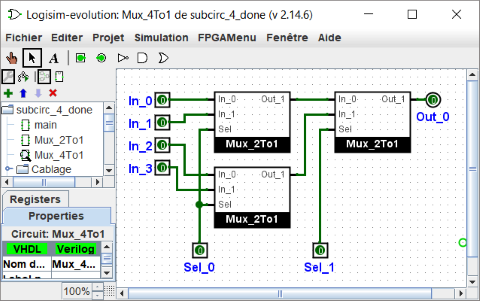
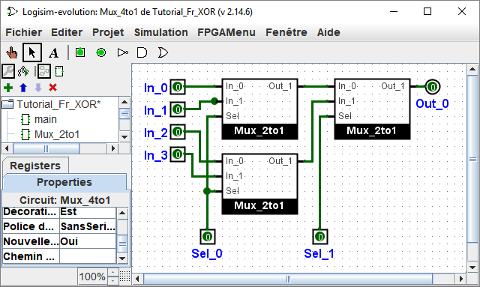
Translate to fr
Add toolsbar

diff --git a/doc/fr/html/libs/base/edit.html b/doc/fr/html/libs/base/edit.html
@@ -1,13 +1,13 @@
 <html>
 <meta charset="UTF-8">
 <head>
-<title>Edit Tool</title>
+<title>Outil Editer</title>
 </head>
 
 <body bgcolor="FFFFFF">
 
 <h1><img  align="center" src="../../../icons/select.gif" width="32" height="32">
-<em>Edit Tool</em></h1>
+<em>Outil Editer</em></h1>
 
 <p><table>
 <tr><td><strong>Librairie:</strong></td>
@@ -18,66 +18,40 @@
 
 <h2>Comportement</h2>
 
-<p>The Edit tool allows the user to rearrange existing components and to add  wires. Exactly what the tool does depends on where the user presses the mouse
-on the canvas.</p>
+<p><b>L'outil Editer</b> permet à l'utilisateur de réorganiser sur les dessins les composants existants et d'ajouter des câbles. Cet outil est une sorte de super outil qui regroupe les fonction de l'outil sélection et câblage. L'effet de l'outil Editer varie selon l'endroit ou l'utilisateur clic avec la souris.</p>
+<h3>La sélection</h3>
+<p>Comme dans la pluspart des programmes de dessins Logisim permet de sélectionner des éléments de celui-ci pour les déplacer,les copier les supprimer ou les modifier.
 
-<ul>
+<p><b>Un simple clic-droit</b> sur un composant ou un fil non déjà marqué sélectionne celui-ci. Si une autre sélection est active, elle sera libérée et seul le dernier composant cliqué sera sélectionné.<br>
+Si l'on commence l'opération clic-droit-glissé sur une partie du dessin ou il n'y pas de composant cela déclenche une sélection rectangulaire et tous les composants couverts par ce rectangle seront sélectionnés.<br>
+Si on maitient le bouton gauche enfoncé ou si l'on clic-droit sur une sélection celle-ci peut être immédiatement déplacée par un glisser sur le dessin.<br></P>
+</p><b>Un Maj-Clic-droit</b> sur un composant rajout celui-ci à la sélection en cours. Si l'on effectue un Maj-Clic-glissé cela déclanche une sélection rectangulaire et tous les composants couverts par cette sélection seront rajoutés à la sélection active.</p>
 
-<li><p>When the mouse is over a wiring point for an existing component,or if it is atop a current wire, the Edit Tool will display a small green circle around the mouse's location. Pressing the button there initiates the addition of a new wire. But if the user doesn't drag the mouse far enough to initiate a wire before releasing the button, the press is treated as a mouse click, and so the wire is simply added into the current selection.</p>
+<p><b>Un clic-gauche</b> ou un <b>Ctrl-clic</b> affiche le menu contextuel du composant ou de la sélection au-dessous du curseur de la souris.</p>
+ 
+<p><b>Un ALt+clic</b> sur un segment de fil permet de le déplacer en conservant le câblage. Si vous effectuez cette action en dehors d'un câblage, un petit cercle vert sera affiché et vous pourrez en  glissant la souris etablir un nouveau câblage depuis ce point.
 
-<p>The bit width of an added wire is inferred from the components to which it is connected. If it is not attached to any components, the wire will be drawn gray to indicate that its bit width is unknown; if the components at the locations that the wire helps to connect disagree on the bit width, then the wire will be drawn orange to indicate the conflict, and the wire will in fact refuse to carry any values at all until the user resolves the conflict.</p>
+<p><b>Note:</b> Certain point du dessins ont un corportement particulier sur un clic-droit, ils ne déclanche pas de sélection. Mais commence un câblage. Il s'agit des extrémités des fils et des connexions des composants. Un petit cercle vert s'affiche quand cela se produit.</b></p>
 
-<p>All wires in Logisim are either horizontal or vertical, never diagonal.</p>
+<p>Par la suite en plus des possibilités commune du <a href="../../guide/menu/edit.html">menu éditer</a> ( copier Ctrl-C, couper Ctrl-X, coller Ctrl-V et effacer Del/Delete ) certaines touches ont un effet avec l'outil d'édition.
 
-<p>Wires are non-directional; that is, they carry values from either endpoint to the other. Indeed, a wire can carry values in both directions simultaneously: In the below example, a bit flows from the upper input at left through the center wire, then it circles back through the center wire, and then it circles forward again through the center wire before reaching the output at lower right.</p>
-<center><img src="../../../img-guide/bundles-splitter-2way.png" width="191" height="44"></center>
+<ul><li><p>Les touches fléchées modifient l'attribut Orientation pour tous les composants de la sélection qui ont un tel attribut</p></li>
 
-<p>A single drag of the mouse can create multiple wire segments. The precise process is a little confusing in its description; but it works quite intuitively in practice: If you request a particular wire segment using the Wiring Tool, that segment will be split apart wherever it hits a pin for an existing component, or wherever it hits the endpoint of an existing wire segment. Also, if an endpoint of any of the new wire segments hit somewhere in the middle of an existing wire, then that wire will be split into multiple segments itself.</p>
+<li><p>Les touches Del Delete (Supprimer) et Retour arrière suppriment l'ensemble des composants sélectionés.</p></li>
 
-<p>You can also shorten or delete an existing wire segment by initiating a drag at the terminus of the segment and then drawing backwards across the segment. During the drag, the shortening is indicated by drawing a white line over of the portion of the wire that will be removed.</p>
-
-<p>Some components draw short stubs to which wires can connect, such as the <a href="../gates/basic.html">OR gate</a> and <a href="../gates/controlled.html">controlled buffer</a>. Logisim will silently correct attempts to create wires that slightly overshoot the stub's end.</p></li>
-
-<li><p>If, however, the user presses the Alt key at a point in the middle of the wire, then the green circle will disappear. A mouse press selects the wire, and a mouse drag moves it.</p></li>
-
-<li><p>Pressing the mouse button while it is within a currently selected component begins a drag moving all elements of the selection.</p>
-
-<p>By default, Logisim will compute a way to add new wires
-so that no existing connections are lost during the move. (Sometimes it will delete or shorten existing wires.) If you're performing a move where you do not want these changes to be made, you can press the shift key during the move. If you want to disable this Comportement entirely, go to Project &gt; Options, select the Canvas tab, and uncheck the <q>Keep Connections When Moving</q> box; in this case, the connections are computed only when the shift key <em>is</em> down.</p>
-
-<p>Dragging a selection can lead to unexpected Comportement from wires: If you drag a selection including some wires on top of some other wires, all wires are merged, and the merged wires are placed into the selection.  As a result, if you drag the selection a second time, the wires previously at the location will not be left behind. This Comportement is necessary to keep with the intuitive Comportement of wires in Logisim, where wires never overlap. And it does not normally constitute a major problem: Logisim will draw the full selection in the midst of dropping, and you should not drop it until you are sure it is in the correct location.</p></li>
-
-<li><p>Pressing the mouse within an unselected component (but not at one of  the component's wiring points) drops all components from the current selection and selects instead the component(s) containing the clicked location.</p></li>
-
-<li><p>Shift-clicking the mouse within a component toggles that component's presence within the selection. If multiple components include the same location, all components' presence will be toggled.</p></li>
-
-<li><p>Dragging the mouse starting at a location not contained within any components drops all components from the current selection and initiates a rectangular selection. All component(s) contained by the rectangle will be placed into the selection.</p></li>
-
-<li><p>Shift-dragging the mouse starting at a location not contained within any components initiates a rectangular selection. The presence in the selection of all component(s) contained by the rectangle will be toggled.</p></li>
-
-<li><p>However, if the Alt key is pressed at a location not contained within any components, this initiates the addition of a new wire. A small green circle is drawn in such a circumstance to indicate this.</p></li>
+<li><p>Les touches Insérer et Ctrl-D créeront une copie des composants actuellement sélectionnés.</p></li>
 
 </ul></p>
+<p>Par défaut, Logisim calculera un moyen d'ajouter de nouvelles  connexions de sorte qu'aucune connexion existante ne soit perdue pendant le déplacement. (Parfois, cela supprime ou raccourcit les câbles existants.) Si vous effectuez un déplacement où vous ne souhaitez pas que ces modifications soient effectuées, vous pouvez appuyer sur la touche Maj pendant le déplacement. Si vous voulez désactiver entièrement ce comportement, allez dans le menu Project & gt; Options, sélectionnez l'onglet Canevas et décochez la case <q> Conserver les connexions lors du déplacement </q>; dans ce cas, les connexions ne sont calculées que lorsque la touche Maj est enfoncée.</p>
 
-<p>After selecting the desired items in the selection, you can of course cut/copy/paste/delete/duplicate all the items via the <a href="../../guide/menu/edit.html">Edit menu</a>.</p>
+<p>Si vous avez sélectionné plusieurs composants en utilisant l'outil d'édition, alors la table d'attribut ne présentera que les attributs communs aux différents composants sélectionnés (à l'exclusion des câbles). Si les composants sélectionnés n'ont pas la même valeur pour un attribut, alors la valeur pour cet attribut sera un espace blanc. Vous pouvez changer la valeur pour tous les attributs sélectionnés en une fois en l'éditant.</p>
+</P>
 
-<p>Some keys have an effect with the Edit Tool.</p>
-
-<ul>
-
-<li><p>The arrow keys change the Facing attribute for all components in the selection that have such an attribute.</p></li>
-
-<li><p>The Delete and Backspace keys will delete everything in the selection from the circuit.</p></li>
-
-<li><p>The Insert and MenuKey-D keys will create a duplicate of the currently selected components.</p></li>
-
-</ul>
-
-<p>Logisim's Comportement when duplicating a selection or pasting the clipboard into a circuit is somewhat peculiar: It will not immediately place the components into the circuit; instead, the selection will be a collection of "ghosts," which will be dropped into the circuit as soon as they are either dragged to another location or removed from the selection. (This peculiar Comportement is necessary because pasting will otherwise merge the wires of the selection into the current circuit at once, and the wires there previously will be dragged with the pasted clipboard if the user wants to move the pasted components somewhere else.)</p>
+<p>Le Comportement de Logisim lors de la duplication d'une sélection ou du collage du presse-papiers dans un circuit est quelque peu particulier: il ne placera pas immédiatement les composants dans le circuit; au lieu de cela, la sélection sera une collection de "fantômes", qui seront déposés dans le circuit dès qu'ils seront déplacés vers un autre emplacement ou retirés de la sélection. (Ce Comportement particulier est nécessaire, car dans un cas contraire le collage fusionnerait les fils de la sélection dans le circuit actuel, et les câbles qui s'y trouveraient seraient déplacés avec le Presse-papier collé si l'utilisateur veut déplacer cette sélection ailleurs.)</p>
 
 <h2>Attributs</h2>
 
-<p>None. Selecting a component, though, will display its Attributs. With multiple components selected, Attributs shared by all are shown, blank if they have different values and otherwise with the value they all have in common. (Wires are ignored if there are any non-wires in the selection.) Changes to the attribute value affect all selected components.</p>
+<p>Aucun.</p>
 
 <p><a href="../index.html">Retour dans <em>Référence de la bibliothèque</em></a></p>
 

diff --git a/doc/fr/html/guide/attrlib/toolsbar.html b/doc/fr/html/guide/attrlib/toolsbar.html
@@ -12,13 +12,13 @@
 <p>Une seconde barre d'outils pilote l'affichage du panneau de navigation et de la zone de dessins.</p>
 <center><img src="../../../img-guide/tools2.png"></center>
 Et enfin deux autres barres apparaissent selon l'état du panneau de navigation. Elles sont présentées ci-dessous.
-<center><img src="../../../img-guide/tools3.png"></center>
+<center><img src="../../../img-guide/tools31.png">&nbsp<img src="../../../img-guide/tools32.png"></center>
 <h2>La barre d'outils principale</h2>
-<ul>
-<p>
-Cette barre d'outils est personnalisable à l'aide du menu <span class=menu>|&nbspProjet&nbsp|</span> <span class=menu>|&nbspOptions&nbsp|</span> onglet <span class=menu>|&nbspBarre&nbspd'outils&nbsp|</span> La configuration est en présentée par la page sur les <a href="../opts/toolbar.html"> options de projet.</a><br>
-Ci-dessous nous présentons brièvement les outils présents par défaut dans la barre. Il existe beaucoup d'autres composant pour construire des circuits. Vous trouverez  beaucoup plus d'information sur l'ensemble des outils dans la <a href="../../libs/index.html">Référence de la bibliothèque</a></p>.
 
+<p>
+Cette barre d'outils est personnalisable à l'aide du menu <span class=menu>|&nbspProjet&nbsp|</span> <span class=menu>|&nbspOptions&nbsp|</span> onglet <span class=menu>|&nbspBarre&nbspd'outils&nbsp|</span> La configuration est en présentée par la page sur les <a href="../opts/toolbar.html"> options de projet.</a> 
+Ci-dessous nous présentons brièvement les outils présents par défaut dans la barre. Il existe beaucoup d'autres composant pour construire des circuits. Vous trouverez  beaucoup plus d'information sur l'ensemble des outils dans la <a href="../../libs/index.html">Référence de la bibliothèque</a>.
+<ul>
 <li><p><a href="../../libs/base/poke.html"><img  border="1" src="../../../icons/poke.gif"></a> <strong>Outil Pousser :</strong> Cet outil permet d'interagir avec les composants de simulation. Par exemple si vous <q>poussez</q> sur une connexion du circuit celle-ci basculera d'un état à l'autre ou si vous <q>poussez</q> sur un câble vous pourrez connaitre la valeur des signaux transportés. Plus d'information sur le lien <a href="../../libs/base/poke.html">pousser </a> de la librairie base </p></li>
 
 <li><p><a href="../../libs/base/select.html"><img  border="1" src="../../../icons/select.gif"></a> <strong>L'outil Sélection :</strong> Cet outil est particulièrement utile au moment de la conception des circuits, il permet de poser,déplacer ou sélectionner les éléments. Il sert aussi à câbler le circuit. Plus d'information sur le lien <a href="../../libs/base/select.html">sélect </a> de la librairie base  </p></li>
@@ -31,10 +31,26 @@ Ci-dessous nous présentons brièvement les outils présents par défaut dans la
 
 
 </ul>
-<p>
+</p>
+<h2>La barre d'outils axiliaire</h2>
+<p>Cette barre a quatres boutons les deux premiers concernent le mode de présentation dans le panneau de navigation et les deux autres concernent la présentation du projet. 
+<ul>
+<li><p><img  border="1" src="../../../icons/projtool.gif"> <strong>Vue des librairies </strong>Dans le mode édition affiche les librairies et les outils dans le panneau de navigation</p></li>
+<li><p><img  border="1" src="../../../icons/projsim.gif"> <strong>Vue simulation </strong> Affiche la hiérachie des différents circuit actif dans une simulation</p></li>
+<li><p><img  border="1" src="../../../icons/projlayo.gif"> <strong>Vue schéma </strong> Modifie la vue du canvas dans le mode schema ce qui permet de créer nos circuits.</p></li>
+<li><p><img  border="1" src="../../../icons/projapp.gif"> <strong>Vue dessin </strong> Modifie la vue canvas dans le mode dessins du symbole du circuit.</p></li>
+</ul>
+</p>
+<h2>La barre d'outils du panneau de navigation</h2>
+<p>Cette barre a quatres boutons les deux premiers concernent le mode de présentation dans le panneau de navigation et les deux autres concernent la présentation du projet. 
+<ul>
+<li><p><img src="../../../img-guide/tools31.png"> Cette barre est dédiée au panneau de navigation. Quand le canvas est dans le mode édition elle permet dans l'ordre : d'ajouter un circuit, de monter dans la hirachie un circuit, de descendre dans la hrachie un circuit, de supprimer un circuit.</p></li>
+
+<li><p><img src="../../../img-guide/tools32.png"> Cette barre est affiché dans le mode simulation. Elle permet dans l'orde de : Enclancher/déclancher la simulation, D'avancer d'un pas dans la simulation, D'activer/désactiver les horloges, Un seul tic d'horloge, Lance la simulation pour un cycle de l'hologe clk. </p></li>
+</ul>
 </p>
 
-<p><b>Suite:</b> <a href="attr.html">La table des attributs</a>.
+<p><b>Suite:</b> <a href="explore.html">Le panneau de navigation</a>.
 
 </body>
 </html>

diff --git a/doc/fr/html/guide/attrlib/explore.html b/doc/fr/html/guide/attrlib/explore.html
@@ -8,12 +8,20 @@
 
 <h1>Le panneau de navigation</h1>
 
-<p>Logisim organise les outils dans des <strong>librairies</strong>. Elles sont affichées comme des dossiers dans le panneau de navigation. Pour accéder aux composants d'une librairie, il faut d'abord double cliquer sur le dossier correspondant.
-Ci-dessous vous voyez ouverte la librairie des portes logique et le porte NAND sélectionnée. Vous observez que Logisim est maintenant prêt à ajouter une porte NAND dans le circuit.</p>
-<center><img src="../../../img-guide/attrlib-nand-select.png"></center>
-<p>Si vous regarder le choix des portes logiques dans la librairie correspondante, vous remarquerez que n'avions pas le besoin de développer un circuit XOR auparavant: c'est inclus dans Logisim.</p>
+<p>
+<table><tr>
+<td><img src="../../../img-guide/attrib-explor.png"></td><td VALIGN =top>Le panneau de navigation a deux fonctions. Il peux présenter les circuits en cour de simulation dans la vue <a href="../subcirc/debug.html">simulation</a> ou comme ici les circuits dans le haut et les librairies plus bas représentées par des dossiers. Ces librairies regroupent les outils que vous pouvez utiliser dans vos réalisations.</td>
+</tr>
+</table>
+<p>
+Pour employer un outil il suffit d'ouvrir la librairie (un clic sur la petite cle) puis de sélectionner l'outil (un clic sur l'outil) et enfin déplacer le curseur de la souris sur le canvas et la un dessin fantôme de l'outil suivra le curseur de la souris jusque a ce que vous effectuiez le dernier clic sur la surface pour le déposer a l'emplacement choisi.<p>
+<p>
+Ci-dessous vous voyez ouverte la librairie des portes logique et la porte NAND est sélectionnée. Le fantôme de la porte suit le curseur. Au prochain clic la porte sera insérée dans le circuit.
 
-<p>Quand vous créez un projet, il inclut directement un certain nombre de librairies:</p>
+</p>
+<center><img src="../../../img-guide/attrlib-nand-select.png"></center>
+
+<p>Logisim inclut un certain nombre de librairie à la création d'un projet. Elles sont rpésentées sucintement ici:</p>
 <ul>
 
 <li><b>Câblage:</b> Les composants qui ont directement avoir avec le câblage.</li>
@@ -57,7 +65,7 @@ Il est aussi possible de le faire en exécutant un clic-gauche sur la librairie 
 <p>Par ailleurs, une librairie d'un point de vue technique contient des outils, et non des composants. Par conséquent, dans la librairie de base vous trouvez l'outil Pousser
 (<img src="../../../icons/poke.gif">), l'outil éditer
 (<img src="../../../icons/select.gif">), et d'autres outils qui ne correspondent pas directement à des composants particuliers.
-La plupart des librairies contiennent des outils pour ajouter composants à nos circuits. Toutes les librairies a l'exception de Base sont ainsi.</p>
+La plupart des librairies contiennent des outils pour ajouter des composants à nos circuits. Toutes les librairies a l'exception de Base sont ainsi.</p>
 <p><b>Suite:</b> <a href="toolsbar.html">Les barre d'outils</a>.
 </p>
 

diff --git a/doc/fr/html/guide/log/timetable.html b/doc/fr/html/guide/log/timetable.html
@@ -22,25 +22,23 @@ Cette fenêtre permet la visualisation des signaux sélectionnés précédemment
 <table>
 <tr><td align="right">
     <img  border="0" src="../../../icons/simstop.png" ></td>
-	<td>&nbsp</td><td>Permets d'activer la simulation ou de la stopper. Équivalente du menu Simulation &gt <a href="../menu/simulate.html"> Simulation enclenchée</a></td></tr>
+	<td>&nbsp</td><td>Permets d'activer la simulation ou de la stopper. Équivalente du menu <span class=menu>|&nbspSimulation&nbsp|</span> <a href="../menu/simulate.html"><span class=menu>|&nbspSimulation enclenchée&nbsp|</span></a></td></tr>
 
 <tr><td align="right">
 	<img  border="0" src="../../../icons/simstep.png" </a></td>
-	<td>&nbsp</td><td>Permets d'avancer d'un tic dans la simulation. Équivalente du menu Simulation &gt <a href="../menu/simulate.html"> un seul tic</a></td></tr>
+	<td>&nbsp</td><td>Permets d'avancer d'un tic dans la simulation. Équivalente du menu <span class=menu>|&nbspSimulation&nbsp|</span> <a href="../menu/simulate.html"><span class=menu>|&nbspun seul tic&nbsp|</span></a>
 
 <tr><td align="right">
-	<img  border="0" src="../../../icons/simplay.png" </a></td>
-	<td>&nbsp</td><td>Active ou désactive l'horloge sysclk. Équivalente du menu Simulation &gt <a href="../menu/simulate.html"> tics activés</a></td></tr>
+	<img  border="0" src="../../../icons/simtplay.png" </a></td>
+	<td>&nbsp</td><td>Active ou désactive l'horloge sysclk. Équivalente du menu <span class=menu>|&nbspSimulation&nbsp|</span> <a href="../menu/simulate.html"><span class=menu>|&nbsptics activés&nbsp|</span></a>
 	
 <tr><td align="right">
-	<img  border="0" src="../../../icons/simtplay.png" </a>
-	<td>&nbsp</td><td>Avance d'une demi-période l'horloge sysclk. Équivalente du menu Simulation &gt <a href="../menu/simulate.html"> 'Clk' un pas </a></td></tr>
+	<img  border="0" src="../../../icons/simtstep.png" </a>
+	<td>&nbsp</td><td>Avance d'une demi-période l'horloge sysclk. Équivalente du menu <span class=menu>|&nbspSimulation&nbsp|</span> <a href="../menu/simulate.html"><span class=menu>|&nbsp'Clk' un pas&nbsp|</span></a>
 
 <tr><td align="right">
-	<img  border="0" src="../../../icons/simtstep.png" </a></td>
-    <td></td><td>Avance d'une période ou d'une demi-période l'horloge clk. Équivalente du menu Simulation &gt 
-	<a href="../menu/simulate.html"> Clk un seul tic</a></td></tr>
-
+	<img  border="0" src="../../../icons/clock.gif" </a></td>
+    <td></td><td>Avance d'une période ou d'une demi-période l'horloge clk. Équivalente du menu <span class=menu>|&nbspSimulation&nbsp|</span> <a href="../menu/simulate.html"><span class=menu>|&nbspClk un seul tic&nbsp|</span></a>
 </table></p>
 <p><b>Les boutons:</b> On touve trois boutons au fond de notre fenêtre.
 <li><b>Chager fichier :</b>Charge et affiche le résultat depuis un fichier pralablement sauvegardé. Cela ne permet pas de paramètrer la simulation.

diff --git a/doc/fr/html/guide/subcirc/creating.html b/doc/fr/html/guide/subcirc/creating.html
@@ -8,13 +8,13 @@
 
 <h1>Créer des circuits</h1>
 
-<p>Chaque projet de Logisim est en réalité une bibliothèque de circuits. Dans sa forme la plus simple, chaque projet possède seulement un circuit (nommé "main" par défaut), mais il est facile d'en ajouter plus : Sélectionnez <span class=menu>|&nbspProjet&nbsp|</span> &rarr; <span class=menu>|&nbspAjouter Circuit...&nbsp|</span>  et entrez le nom désiré pour le nouveau circuit que vous voulez créer.</p>
+<p>Chaque projet de Logisim est en réalité une bibliothèque de circuits. Dans sa forme la plus simple, chaque projet possède seulement un circuit (nommé "main" par défaut), mais il est facile d'en ajouter plus pour cela vous pouvez soit cliquez sur le <img src="../../../icons/projadd.gif"> plus de la petite barre de menu au dessus du panneau de navigation ou clic droit sur la racine de l''arborescence dans le panneau de navigation ou encore Sélectionnez <span class=menu>|&nbspProjet&nbsp|</span> &rarr; <span class=menu>|&nbspAjouter Circuit...&nbsp|</span>  et ensuite saisissez le nom désiré pour le nouveau circuit que vous voulez créer.</p>
 <p><b>Note :</b> Le nom des circuits doit commencer par une lettre (A..Z,a..z) il peut contenir les signes (.,_) et des chiffres.</p>
-<p>Supposez que nous voulons construire un multiplexeur 2-to-1 nommé "Mux_2To1". Après la création du circuit, Logisim ressemblera à ceci.</p>
+<p>Supposez que nous voulons construire un multiplexeur 2-to-1 nommé "Mux_2to1". Après la création du circuit, Logisim ressemblera à ceci.</p>
 <center><img src="../../../img-guide/subcirc-2-add.png"></center>
-<p>Dans la liste de l'explorateur, vous pouvez maintenant voir que le projet contient deux circuits, "main" et "Mux_2To1" Logisim dessine une loupe sur l'icône du circuit actuellement éditable; le nom de circuit actuel apparait aussi dans la barre de titre de la fenêtre.</p>
+<p>Dans la liste de l'explorateur, vous pouvez maintenant voir que le projet contient deux circuits, "main" et "Mux_2to1" Logisim dessine une loupe sur l'icône du circuit actuellement éditable; le nom de circuit actuel apparait aussi dans la barre de titre de la fenêtre.</p>
 
-<p>Après avoir édité le schéma du circuit "Mux_2To1", nous pourrions présenter le circuit suivant.</p>
+<p>Après avoir édité le schéma du circuit "Mux_2to1", nous pourrions présenter le circuit suivant.</p>
 <center><img src="../../../img-guide/subcirc-2-done.png"></center>
 
 <p><b>Suite:</b> <a href="using.html">Utiliser des sous-circuits</a>.</p>

diff --git a/doc/fr/html/guide/subcirc/using.html b/doc/fr/html/guide/subcirc/using.html
@@ -7,16 +7,16 @@
 
 <h1>Utiliser des sous-circuits</h1>
 
-<p>Supposez maintenant que nous voulons construire un multiplexeur 4-to-1 en utilisant des instances de notre multiplexeur 2-to-1. Nous créons d'abord un nouveau circuit que nous nommons "Mux_4To1".
-Pour ajouter les multiplexeurs 2-to-1 nous cliquons  <b>une fois</b> sur le circuit "Mux_2To1" dans l'explorateur du projet pour le sélectionner comme un outil. Ensuite, nous pouvons le placer sur le schéma en cliquant sur la page.
+<p>Supposez maintenant que nous voulons construire un multiplexeur 4-to-1 en utilisant des instances de notre multiplexeur 2-to-1. Nous créons d'abord un nouveau circuit que nous nommons "Mux_4to1".
+Pour ajouter les multiplexeurs 2-to-1 nous cliquons  <b>une fois</b> sur le circuit "Mux_2to1" dans l'explorateur du projet pour le sélectionner comme un outil. Ensuite, nous pouvons le placer sur le schéma en cliquant sur la page.
 </p>
 <center><img src="../../../img-guide/subcirc-4-add.png"></center>
-<p>Si vous faites un double-clic sur le circuit "Mux_2To1" dans l'explorateur de projet la page bascule sur l'édition de ce circuit (Mux_2To1) et quitte le circuit "Mux_4To1"</b>.</p>
+<p>Si vous faites un double-clic sur le circuit "Mux_2to1" dans l'explorateur de projet la page bascule sur l'édition de ce circuit (Mux_2to1) et quitte le circuit "Mux_4to1"</b>.</p>
 
 <p>Après avoir dessiné le nouveau circuit, il peut ressembler à ceci.</p>
 <center><img src="../../../img-guide/subcirc-4-done.png"></center>
 <p>Notre multiplexeur 4-to-1 utilise trois copies du multiplexeur 2-to-1, chacun est dessiné dans un rectangle avec des broches sur les côtés gauche et droit.
-Ces lignes représentent les entrées et les sorties du circuit "Mux_2To1". Les deux broches sur la face est du rectangle correspondent aux entrées du circuit et sur la face ouest elles correspondent aux sorties.
+Ces lignes représentent les entrées et les sorties du circuit "Mux_2to1". Les deux broches sur la face est du rectangle correspondent aux entrées du circuit et sur la face ouest elles correspondent aux sorties.
 Si les des étiquettes ont été associées a ces broches dans le schéma elles seront incluses dans le symbole.
 De plus elles s'affichent aussi comme une <b>infobulle</b> quand on survole la broche avec la souris.
 Vous pouvez désactiver ce fonctionnement via le panneau des préférences <a href="../prefs/layout.html">panneaux des préférences</a>.)</p>

diff --git a/doc/fr/html/guide/tutorial/tutor-orient.html b/doc/fr/html/guide/tutorial/tutor-orient.html
@@ -15,11 +15,11 @@ Certains détails pourraient être légèrement différents suivant le système 
 
 <center><img src="../../../img-guide/tutorial-shot-blank.png"></center>
 
-<p>L'espace de Logisim est divisé en trois parties appelées le <a href="../attrlib/explore.html">panneau de navigation</b></a>, la <a href="../attrlib/attr.html">table des attributs</a>, et la <b class=dblue>surface de travail</b> (ou zone d'édition). Au-dessus de ces trois parties se trouvent la <a href="../attrlib/attr.html">la barre de menu</a> et la <a href="../attrlib/toolsbar.html">barre d'outils</a>.</p>
+<p>L'espace de Logisim est divisé en trois parties appelées le <a href="../attrlib/explore.html">panneau de navigation</b></a>, la <a href="../attrlib/attr.html">table des attributs</a>, et la <a href="../attrlib/canvas.html">la surface de travail</a> (ou canvas). Au-dessus de ces trois parties se trouvent la <a href="../attrlib/menu.html">la barre de menu</a> et la <a href="../attrlib/toolsbar.html">barre d'outils</a>.</p>
 <center><img src="../../../img-guide/tutorial-shot-labeled.png"></center>
 <p>Nous pouvons rapidement mettre de côté le panneau de navigation et la table des attributs: nous ne les examinerons pas dans ce tutoriel, et vous pouvez juste les ignorer. Par ailleurs, <a href="../menu/index.html">la barre de menu</a> s'explique d'elle-même.</p>
 
-<p>Il nous reste la <a href="../attrlib/toolsbar.html"><b>barre d'outils</b></a> et <b class=dblue>la surface de travail</b>. La surface de travail est l'espace où vous dessinerez votre circuit et la barre d'outils contient les outils qui nous permettront d'y arriver.</p>
+<p>Il nous reste la <a href="../attrlib/toolsbar.html">barre d'outils</a> et <a href="../attrlib/canvas.html">la surface de travail</a>. La surface de travail est l'espace où vous dessinerez votre circuit et la barre d'outils contient les outils qui nous permettront d'y arriver.</p>
 
 <p><b>Suite:</b> <a href="tutor-gates.html">Etape 1: Ajouter des portes logiques</a></p>
 

diff --git a/doc/fr/html/guide/subcirc/appear.html b/doc/fr/html/guide/subcirc/appear.html
@@ -25,8 +25,7 @@ Ci-dessous, nous modifions l’aspect du multiplexeur 2:1 pour qu’il soit dess
 
 <center><img src="../../../img-guide/subcirc-custom-appear.png"></center>
 
-<p>Avec l'apparence du multiplexeur 2:1 dessiné ci-dessus,
-la disposition du multiplexeur 4:1 se présente naturellement comme suit.</p> 
+<p>En modifiant l'apparence du multiplexeur 2:1 dessiné ci-dessus, vous allez devoir probablement devoir réajuster le câblage des circuits qui utilisent le circuit. Après cela, la disposition du multiplexeur 4:1 se présente naturellement comme suit.</p> 
 
 <center><img src="../../../img-guide/subcirc-custom-layout.png"></center>
 
@@ -42,7 +41,7 @@ L'ancre sera alignée avec ce point du dessin global lorsque le sous-circuit est
 
 <p><b>L'ancre</b> indique aussi l'orientation du composant quand il est inséré dans le dessin, elle en est le centre de rotation. L'orientation est indiquée par la direction de la ligne qui pointe du cercle.
 Dans le dessin du sous-circuit, il est possible de modifier l'orientation de l'ancre dans les propriétés. Cela indiquera quelle orientation aura le symbole quand on le dépose sur un circuit.
-Dans notre exemple l'ancre du sous-circuit "Mux_2To1" est orientée à l'est et chaque instance du sous-circuit multiplexeur est également face à l'est dans le dessin du sous-circuit "Mux_4To1"</p></li>
+Dans notre exemple l'ancre du sous-circuit "Mux_2to1" est orientée à l'est et chaque instance du sous-circuit multiplexeur est également face à l'est dans le dessin du sous-circuit "Mux_4to1"</p></li>
 
 <li><p>Les cercles bleus (<img align=middle src = "../../../img-guide/pinoutput.png">) et les carrés avec un point (<img align=middle src = "../../../img-guide/pininput.png" >) sont les <b>connexions</b> du sous-circuit. Il y a exactement autant de symboles que de broche d'entrée et de sorties.
 Les connexions en entrée sont indiquées par des carrés et les connexions en sortie par des cercles.

diff --git a/doc/fr/html/libs/base/poke.html b/doc/fr/html/libs/base/poke.html
@@ -18,7 +18,7 @@
 
 <h2>Comportement</h2>
 
-<p>L'outil Pousser permet de manipuler les valeurs actuelles associées aux composants. Le comportement précis de l'outil Pousser varie en fonction du composant cliqué. Ce comportement est documenté dans la section «Comportement de l'outil Pousser de chaque composant individuel. Les composants suivants prennent tous en charge l'outil Pousser.</p>
+<p>L'outil Pousser permet de manipuler les valeurs actuelles associées aux composants. Le comportement précis de l'outil Pousser varie en fonction du composant cliqué. Ce comportement est documenté dans la section <q>Comportement de l'outil Pousser</q> de chaque composant individuel. Les composants suivants prennent tous en charge l'outil Pousser.</p>
 <blockquote><table>
 <tr><td valign="top"><strong>Base library</strong></td>
 	<td><a href="pin.html">Pin</a>
@@ -32,11 +32,12 @@
 	<br><a href="../mem/rom.html">ROM</a></td></tr>
 <tr><td valign="top"><strong>Input/Output library</strong></td>
 	<td><a href="../io/button.html">Button</a>
+	<br><a href="../io/button.html">Dip switch</a>
 	<br><a href="../io/joystick.html">Joystick</a>
 	<br><a href="../io/keyboard.html">Keyboard</a></td></tr>
 </table></blockquote>
-<p>De même, cliquer sur un segment de fil à l’aide de l’outil Pousser affiche la valeur actuellement transportée par le fil, comme décrit sur la page de <a href="wiring.html">l'outil câblage</a>.</p>
-<p>En cliquant sur un composant prenant en charge l'outil Pousser, vous afficherez les attributs de ce composant.</p>
+<p>De même, cliquer sur un segment de fil à l’aide de l’outil Pousser affiche la valeur transportée par le fil, comme décrit sur la page de <a href="wiring.html">l'outil câblage</a>.</p>
+<p>Dans le mode dessins en cliquant sur un composant prenant en charge l'outil Pousser, vous afficherez les attributs de ce composant.</p>
 
 <h2>Les attributs</h2>
 

diff --git a/doc/fr/html/contents.html b/doc/fr/html/contents.html
@@ -13,15 +13,14 @@
   	<li><a id="tutorial_text">Etape 3: Ajouter du texte</a></li>
   	<li><a id="tutorial_test">Etape 4: Tester votre circuit</a></li>
   </ul></li>
-  <li><a id="attrlib">Librairies et attributs</a><ul>
-  	<li><a id="attrlib_explore">Le panneau de navigation</a></li>li><a id="attrlib_toolsbar">Les barres de menus</a></li>
+  <li><a id="attrlib">l'interface graphique</a><ul>
+    <li><a id="attrlib_canvas">La surface de travail (Canvas)n</a></li>   <li><a id="attrlib_menu">Les menu</a></li>  	<li><a id="attrlib_explore">Le panneau de navigation</a></li>	<li><a id="attrlib_toolsbar">Les barres de menus</a></li>
   	<li><a id="attrlib_attr">Le tableau des attributs</a></li>
   	<li><a id="attrlib_tool">Attributs des outils et des composants</a></li>
   </ul></li>
   <li><a id="subcirc">Design hiérarchique</a><ul>
   	<li><a id="subcirc_creating">Créer des circuits</a></li>
-  	<li><a id="subcirc_using">Utiliser des sous-circuits</a></li>
-  	<li><a id="subcirc_appear">Editer l'apparence d'un sous-circuit</a></li>
+  	<li><a id="subcirc_using">Utiliser des sous-circuits</a></li>  	<li><a id="subcirc_appear">Editer l'apparence d'un sous-circuit</a></li>
   	<li><a id="subcirc_debug">Déboguer un sous-circuit</a></li>
   	<li><a id="subcirc_library">Librairies Logisim</a></li>
   </ul></li>
@@ -31,8 +30,7 @@
   	<li><a id="bundles_colors">Couleur des câbles</a></li>
   </ul></li>
   <li><a id="analyze">Analyse combinatoire</a><ul>
-  	<li><a id="analyze_open">Ouvrir l'analyse combinatoire</a></li>
-  	<li><a id="analyze_table">Editer la table de vérité</a></li>
+  	<li><a id="analyze_open">Ouvrir l'analyse combinatoire</a></li>	<li><a id="analyze_table">Editer la table de vérité</a></li>
   	<li><a id="analyze_expr">Créer des expressions</a></li>
   	<li><a id="analyze_gen">Générer un circuit</a></li>
   </ul></li>

diff --git a/doc/fr/html/guide/subcirc/library.html b/doc/fr/html/guide/subcirc/library.html
@@ -10,8 +10,7 @@
 <h1>Librairie Logisim</h1>
 
 <p>Chaque projet Logisim est une bibliothèque pouvant être chargée dans d'autres projets Logisim. Il suffit de l'enregistrer dans un fichier, puis de sélectionner le fichier a l'aide du menu Sélectionez le menu <span class=menu>|&nbspProjet&nbsp|</span> &rarr; <span class=menu>|&nbspCharger une Librairie&nbsp|</span> &rarr; <span class=menu>|&nbspLibrairie logisim-evolution&nbsp|</span>  pour le charger. Tous les circuits définis dans le premier projet seront alors disponibles en sous-circuits pour le second.
-Cette fonctionnalité vous permet de réutiliser des composants communs à plusieurs projets et de partager des composants favoris avec vos amis (ou étudiants).
-</p>
+Cette fonctionnalité vous permet de réutiliser des composants communs à plusieurs projets et de partager des composants favoris avec vos amis (ou étudiants).</p>
 <p>Chaque projet a un "circuit principal" désigné qui peut être modifié pour faire référence au circuit actuel via le menu <span class=menu>|&nbspProjet&nbsp|</span> &rarr; <span class=menu>|&nbspDéfinir comme circuit principal&nbsp|</span>. <em>Circuit principal</em> signifie simplement que ce schéma sera affiché lors de la première ouverture du projet. Le nom par défaut du circuit principal dans un fichier nouvellement créé ("main") n'a aucune signification et vous pouvez supprimer ou renommer ce circuit.</p>
 <p>Avec une bibliothèque Logisim chargée, vous êtes autorisé à visualiser les circuits et à manipuler leurs états, mais Logisim vous empêchera de modifier la conception des circuits et les autres données stockées dans le fichier.<p>
 <p>

diff --git a/doc/fr/html/guide/attrlib/canvas.html b/doc/fr/html/guide/attrlib/canvas.html
@@ -1,0 +1,25 @@
+<html>
+<meta charset="UTF-8">
+<head>
+	<title>La surface de travail (Canvas)</title>
+<LINK rel="stylesheet" type="text/css" href="../style.css">
+</head>
+<body bgcolor="FFFFFF">
+
+<h1>La surface de travail (Canvas)</h1>
+
+<p>La surface de travail est vraiment la partie la plus visible de Liogisim-evolution c'est la que vous dessinerez vos circuits et leur symbole pour enfint en simuler le fonctionnement.</p>
+<center><img src="../../../img-guide/tutorial-shot-labeled.png"></center>
+<p>Elle n'est composé que de quelques élements:<br>
+
+<p><b>Les barres de défilement horizontal et vertical</b> : Elles fonctionnent comme dans la plus part des programme il suffit de déplacer les curseurs pour déplacer la vue sur d'autre partie du dessins. Elles peuvent aussi se manipuler depuis le clavier ou la souris avec les combinaison suivante :<ul> <li>Mollette souris ou Fléche bas/haut : Défilement vertical</li><li>Alt-Mollette souris ou Fléche droite/gauche: Défilement horizontal </li>
+<li>Touche Home : Haute de page</li>
+<li>Touche End : Bas de page</li></ul></p>
+<center><img src="../../../img-guide/zoom.png"></center>
+<p><b>Le zoom :</b> En bas sur la gauche il y a l'affichage du facteur de zoom courant (100% dans la figure). vous pouvez le modifier avec les deux bouton a droite du taux ou avec Ctrl + Molette souris</p>
+<p><b>Le bouton grille :</b> A droite du zoom, Bascule du mode <q>grille affichée</q> au mode <q>grille invisible</q> alternativement.</p>
+
+<p><b>Suite:</b> <em><a href="menu.html">Les menus</a></em>.</p>
+
+</body>
+</html>
